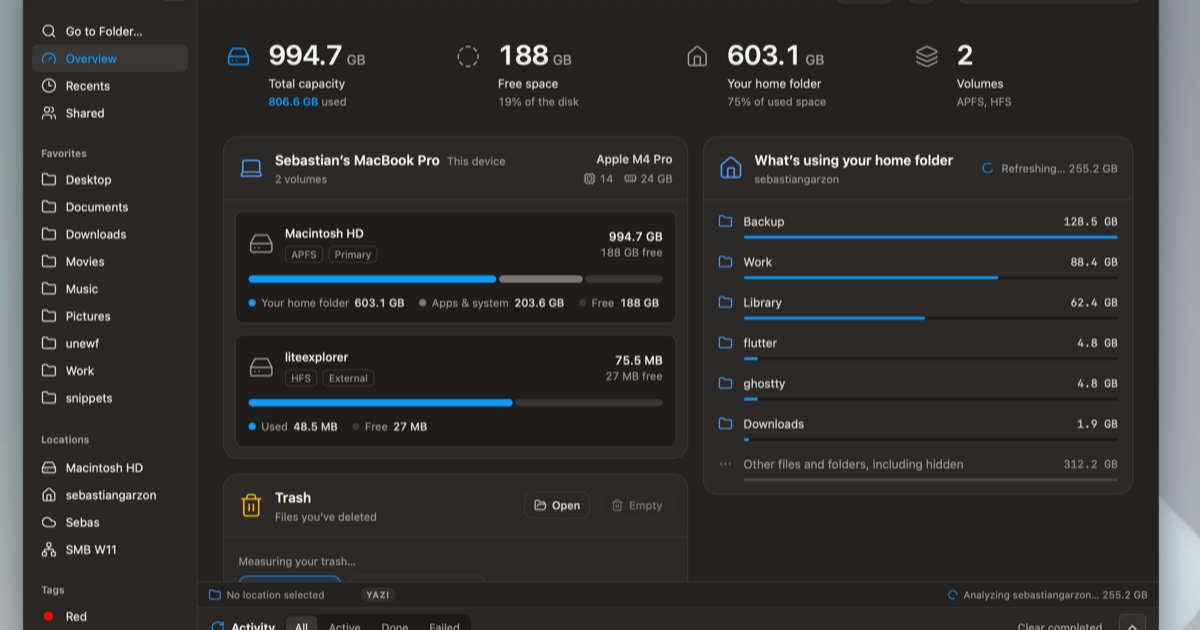
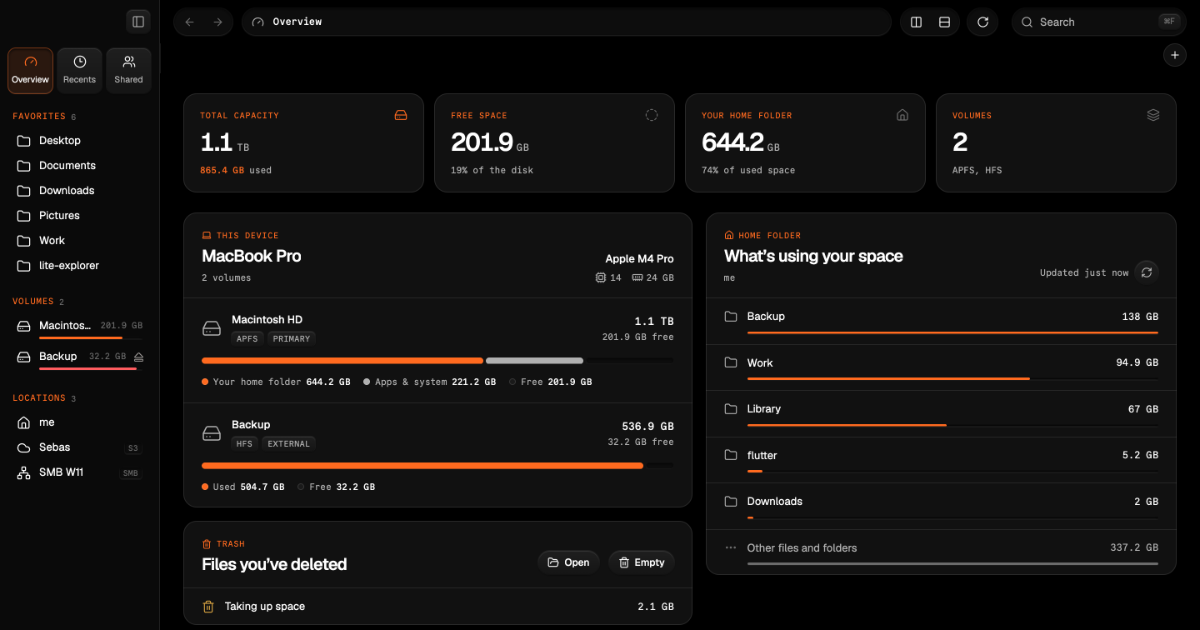
docs: new screenshots in WebP, Litepod style on the website
- README and website show the Litepod redesign: Overview, and the file list
  with the docked preview. Lossless WebP at 2x; the Recents shot is replaced.
- Website tokens follow the app's Litepod theme: black canvas, orange accent,
  Geist and Commit Mono, mono labels, raised buttons, recessed badges, card rings.
- Open Graph image regenerated from the new Overview.

diff --git a/apps/web/src/styles/global.css b/apps/web/src/styles/global.css
@@ -1,4 +1,7 @@
 @import "tailwindcss";
+@import "@fontsource-variable/geist/wght.css";
+@import "@fontsource/commit-mono/400.css";
+@import "@fontsource/commit-mono/500.css";
 
 /* Theme is driven by [data-theme] on <html>, set before paint in Layout.astro. */
 @custom-variant dark (&:where([data-theme="dark"], [data-theme="dark"] *));
@@ -11,87 +14,95 @@
 :root {
   color-scheme: dark;
 
-  --bg: #242220;
-  --bg-deep: #1c1b1a;
-  --sidebar: #292725;
-  --surface: #2d2a27;
-  --surface-raised: #35322f;
+  /* Litepod: black canvas, orange signal, raised controls and recessed wells. */
+  --bg: #000;
+  --bg-deep: #0a0a0a;
+  --sidebar: #0a0a0a;
+  --surface: #111;
+  --surface-raised: #1a1a1a;
 
-  --fg: #f2f1f0;
-  --fg-soft: #e8e5e2;
-  --muted: #a8a4a1;
-  --muted-dim: #8d8986;
-  --muted-faint: #67635f;
+  --fg: #fff;
+  --fg-soft: #e6e6e6;
+  --muted: #b0b0b0;
+  --muted-dim: #8a8a8a;
+  --muted-faint: #6b6b6b;
 
-  --border: #3a3734;
-  --border-strong: #494541;
+  --border: #ffffff17;
+  --border-strong: #ffffff29;
 
-  --accent: #0a9bff;
-  --accent-ink: #04121f;
-  --primary: oklch(0.508 0.118 165.612);
+  --accent: #ff6a1f;
+  --accent-ink: #140700;
+  --primary: #ff6a1f;
+  --label: #ff6a1f;
 
-  --nav-backdrop: rgb(36 34 32 / 0.72);
+  --nav-backdrop: rgb(0 0 0 / 0.72);
   --overlay-1: rgb(255 255 255 / 0.06);
   --overlay-2: rgb(255 255 255 / 0.12);
-  --hairline: rgb(255 255 255 / 0.07);
-  --panel-fill: linear-gradient(to bottom, rgb(255 255 255 / 0.025), transparent);
-  --panel-fill-hover: linear-gradient(to bottom, rgb(255 255 255 / 0.05), rgb(255 255 255 / 0.015));
-  --glass-fill: linear-gradient(to bottom, rgb(255 255 255 / 7%), rgb(255 255 255 / 3%));
-  --glass-fill-hover: linear-gradient(to bottom, rgb(255 255 255 / 12%), rgb(255 255 255 / 7%));
-  --glass-edge:
-    inset 0 1px 0 rgb(255 255 255 / 9%), inset 0 0 0 1px rgb(255 255 255 / 6%),
-    0 6px 16px -8px rgb(0 0 0 / 40%);
+  --hairline: #ffffff12;
+  --panel-fill: #111;
+  --panel-fill-hover: #141414;
+  --glass-fill: linear-gradient(180deg, #1f1f1f, #151515);
+  --glass-fill-hover: linear-gradient(180deg, #262626, #1a1a1a);
+  --glass-edge: inset 0 1px 0 #ffffff17, 0 1px 2px #000a, 0 0 0 1px #ffffff12;
   --glass-blur: blur(18px) saturate(160%);
-  --shadow-key:
-    inset 0 1px 0 rgb(255 255 255 / 0.09), inset 0 0 0 1px rgb(255 255 255 / 0.06),
-    0 2px 4px rgb(0 0 0 / 0.25);
+  --well-fill: #0d0d0d;
+  --well: inset 0 1px 3px #000, inset 0 0 0 1px #ffffff14, 0 1px 0 #ffffff0a;
+  --card-ring: inset 0 0 0 1px #ffffff1a;
+  --emboss: #0006;
+  --shadow-key: inset 0 1px 0 #ffffff17, 0 1px 2px #000a, 0 0 0 1px #ffffff12;
   --shadow-window:
-    0 0 0 1px rgb(255 255 255 / 0.08), inset 0 1px 0 rgb(255 255 255 / 0.06),
-    0 40px 90px -30px rgb(0 0 0 / 0.8), 0 10px 30px -14px rgb(0 0 0 / 0.6);
-  --shadow-accent: inset 0 1px 0 rgb(255 255 255 / 0.22), 0 8px 22px -10px rgb(10 155 255 / 0.7);
-  --grain-opacity: 0.5;
+    0 0 0 1px #ffffff17, inset 0 1px 0 #ffffff0f, 0 40px 90px -30px rgb(0 0 0 / 0.9),
+    0 10px 30px -14px rgb(0 0 0 / 0.7);
+  --shadow-accent:
+    inset 1px 1px 0 #ffffff38, inset -1px -1px 0 #00000024, 0 1px 2px #0006,
+    0 12px 24px -12px rgb(255 106 31 / 0.7);
+  --grain-opacity: 0.4;
 }
 
 [data-theme="light"] {
   color-scheme: light;
 
-  --bg: #f5f3f1;
+  --bg: #fafafa;
   --bg-deep: #ffffff;
-  --sidebar: #efece9;
+  --sidebar: #f0f0f0;
   --surface: #ffffff;
-  --surface-raised: #f0edea;
+  --surface-raised: #ffffff;
 
-  --fg: #1f1d1c;
-  --fg-soft: #33302e;
-  --muted: #6b6763;
-  --muted-dim: #8a8681;
-  --muted-faint: #aaa5a1;
+  --fg: #0f0f0f;
+  --fg-soft: #262626;
+  --muted: #5e5e5e;
+  --muted-dim: #7a7a7a;
+  --muted-faint: #9a9a9a;
 
-  --border: #e3dfda;
-  --border-strong: #cec8c2;
+  --border: #0f0f0f1c;
+  --border-strong: #0f0f0f2e;
 
-  --accent: #0a84ff;
+  --accent: #d4410b;
   --accent-ink: #ffffff;
-  --primary: oklch(0.52 0.12 165);
+  --primary: #d4410b;
+  --label: #b83a00;
 
-  --nav-backdrop: rgb(252 251 250 / 0.72);
+  --nav-backdrop: rgb(250 250 250 / 0.72);
   --overlay-1: rgb(0 0 0 / 0.05);
   --overlay-2: rgb(0 0 0 / 0.09);
-  --hairline: rgb(0 0 0 / 0.08);
-  --panel-fill: linear-gradient(to bottom, rgb(255 255 255 / 0.9), rgb(255 255 255 / 0.5));
-  --panel-fill-hover: linear-gradient(to bottom, #ffffff, #fbfaf9);
-  --glass-fill: linear-gradient(to bottom, rgb(255 255 255 / 0.75), rgb(255 255 255 / 0.5));
-  --glass-fill-hover: linear-gradient(to bottom, rgb(255 255 255 / 0.95), rgb(255 255 255 / 0.7));
-  --glass-edge:
-    inset 0 1px 0 rgb(255 255 255 / 0.95), inset 0 0 0 1px rgb(0 0 0 / 0.06),
-    0 6px 16px -8px rgb(0 0 0 / 0.18);
-  --shadow-key:
-    inset 0 1px 0 rgb(255 255 255), inset 0 0 0 1px rgb(0 0 0 / 0.06), 0 2px 4px rgb(0 0 0 / 0.12);
+  --hairline: #0f0f0f14;
+  --panel-fill: #ffffff;
+  --panel-fill-hover: #ffffff;
+  --glass-fill: linear-gradient(180deg, #fff, #f5f5f5);
+  --glass-fill-hover: linear-gradient(180deg, #fff, #fafafa);
+  --glass-edge: inset 0 1px 0 #fff, 0 1px 2px #0f0f0f1f, 0 0 0 1px #0f0f0f1a;
+  --well-fill: #eaeaea;
+  --well: inset 0 1px 2px #0f0f0f21, inset 0 0 0 1px #0f0f0f10, 0 1px 0 #fff;
+  --card-ring: inset 0 0 0 1px #0f0f0f1a;
+  --emboss: #0f0f0f14;
+  --shadow-key: inset 0 1px 0 #fff, 0 1px 2px #0f0f0f1f, 0 0 0 1px #0f0f0f1a;
   --shadow-window:
-    0 0 0 1px rgb(0 0 0 / 0.08), inset 0 1px 0 rgb(255 255 255),
-    0 40px 90px -30px rgb(0 0 0 / 0.25), 0 10px 30px -14px rgb(0 0 0 / 0.18);
-  --shadow-accent: inset 0 1px 0 rgb(255 255 255 / 0.35), 0 8px 22px -10px rgb(10 132 255 / 0.55);
-  --grain-opacity: 0.35;
+    0 0 0 1px #0f0f0f1a, inset 0 1px 0 #fff, 0 40px 90px -30px rgb(0 0 0 / 0.25),
+    0 10px 30px -14px rgb(0 0 0 / 0.18);
+  --shadow-accent:
+    inset 1px 1px 0 #ffffff4d, inset -1px -1px 0 #00000024, 0 1px 2px #0f0f0f14,
+    0 12px 24px -12px rgb(212 65 11 / 0.55);
+  --grain-opacity: 0.3;
 }
 
 /* Expose the semantic tokens to Tailwind utilities (bg-background, text-muted…). */
@@ -114,6 +125,7 @@
   --color-accent: var(--accent);
   --color-accent-ink: var(--accent-ink);
   --color-primary: var(--primary);
+  --color-label: var(--label);
 
   --radius-sm: 0.45rem;
   --radius-md: 0.6rem;
@@ -122,9 +134,9 @@
   --radius-2xl: 1.35rem;
   --radius-3xl: 1.65rem;
 
-  --font-sans: -apple-system, BlinkMacSystemFont, "SF Pro Text", "Helvetica Neue", sans-serif;
-  --font-display: -apple-system, BlinkMacSystemFont, "SF Pro Display", "Helvetica Neue", sans-serif;
-  --font-mono: ui-monospace, "SF Mono", Menlo, Consolas, monospace;
+  --font-sans: "Geist Variable", Geist, -apple-system, BlinkMacSystemFont, sans-serif;
+  --font-display: "Geist Variable", Geist, -apple-system, BlinkMacSystemFont, sans-serif;
+  --font-mono: "Commit Mono", "Geist Mono", ui-monospace, "SF Mono", Menlo, monospace;
 
   --ease-glass: cubic-bezier(0.32, 0.72, 0, 1);
   --ease-out: cubic-bezier(0.16, 1, 0.3, 1);
@@ -201,8 +213,8 @@
   h4 {
     margin: 0;
     font-family: var(--font-display);
-    font-weight: 600;
-    letter-spacing: -0.02em;
+    font-weight: 560;
+    letter-spacing: -0.035em;
     line-height: 1.08;
     text-wrap: balance;
   }
@@ -241,6 +253,13 @@
   /* Raised surface with a top highlight — cards and key caps. */
   .card-surface {
     background: var(--panel-fill);
+    box-shadow: var(--card-ring);
+  }
+
+  /* Recessed well, like the app's inputs and path bar. */
+  .well {
+    background: var(--well-fill);
+    box-shadow: var(--well);
   }
 
   .card-surface:hover {

diff --git a/README.es.md b/README.es.md
@@ -10,7 +10,7 @@ Hecho con Tauri, SvelteKit y TypeScript.
 
 [English](README.md) · **Español**
 
-![Vista general de Lite Explorer](assets/preview-overview.png)
+![Vista general de Lite Explorer](assets/preview-overview.webp)
 
 </div>
 
@@ -52,7 +52,7 @@ montados, qué ocupa tu carpeta personal y tu Papelera.
 
 <div align="center">
 
-![Recientes en Lite Explorer](assets/preview-recents.png)
+![Lista de archivos de Lite Explorer con el panel de vista previa](assets/preview-files.webp)
 
 </div>
 

diff --git a/README.md b/README.md
@@ -10,7 +10,7 @@ Built with Tauri, SvelteKit, and TypeScript.
 
 **English** · [Español](README.es.md)
 
-![Lite Explorer overview](assets/preview-overview.png)
+![Lite Explorer overview](assets/preview-overview.webp)
 
 </div>
 
@@ -52,7 +52,7 @@ is using your home folder, and your Trash.
 
 <div align="center">
 
-![Lite Explorer recents](assets/preview-recents.png)
+![Lite Explorer file list with the preview panel](assets/preview-files.webp)
 
 </div>
 
